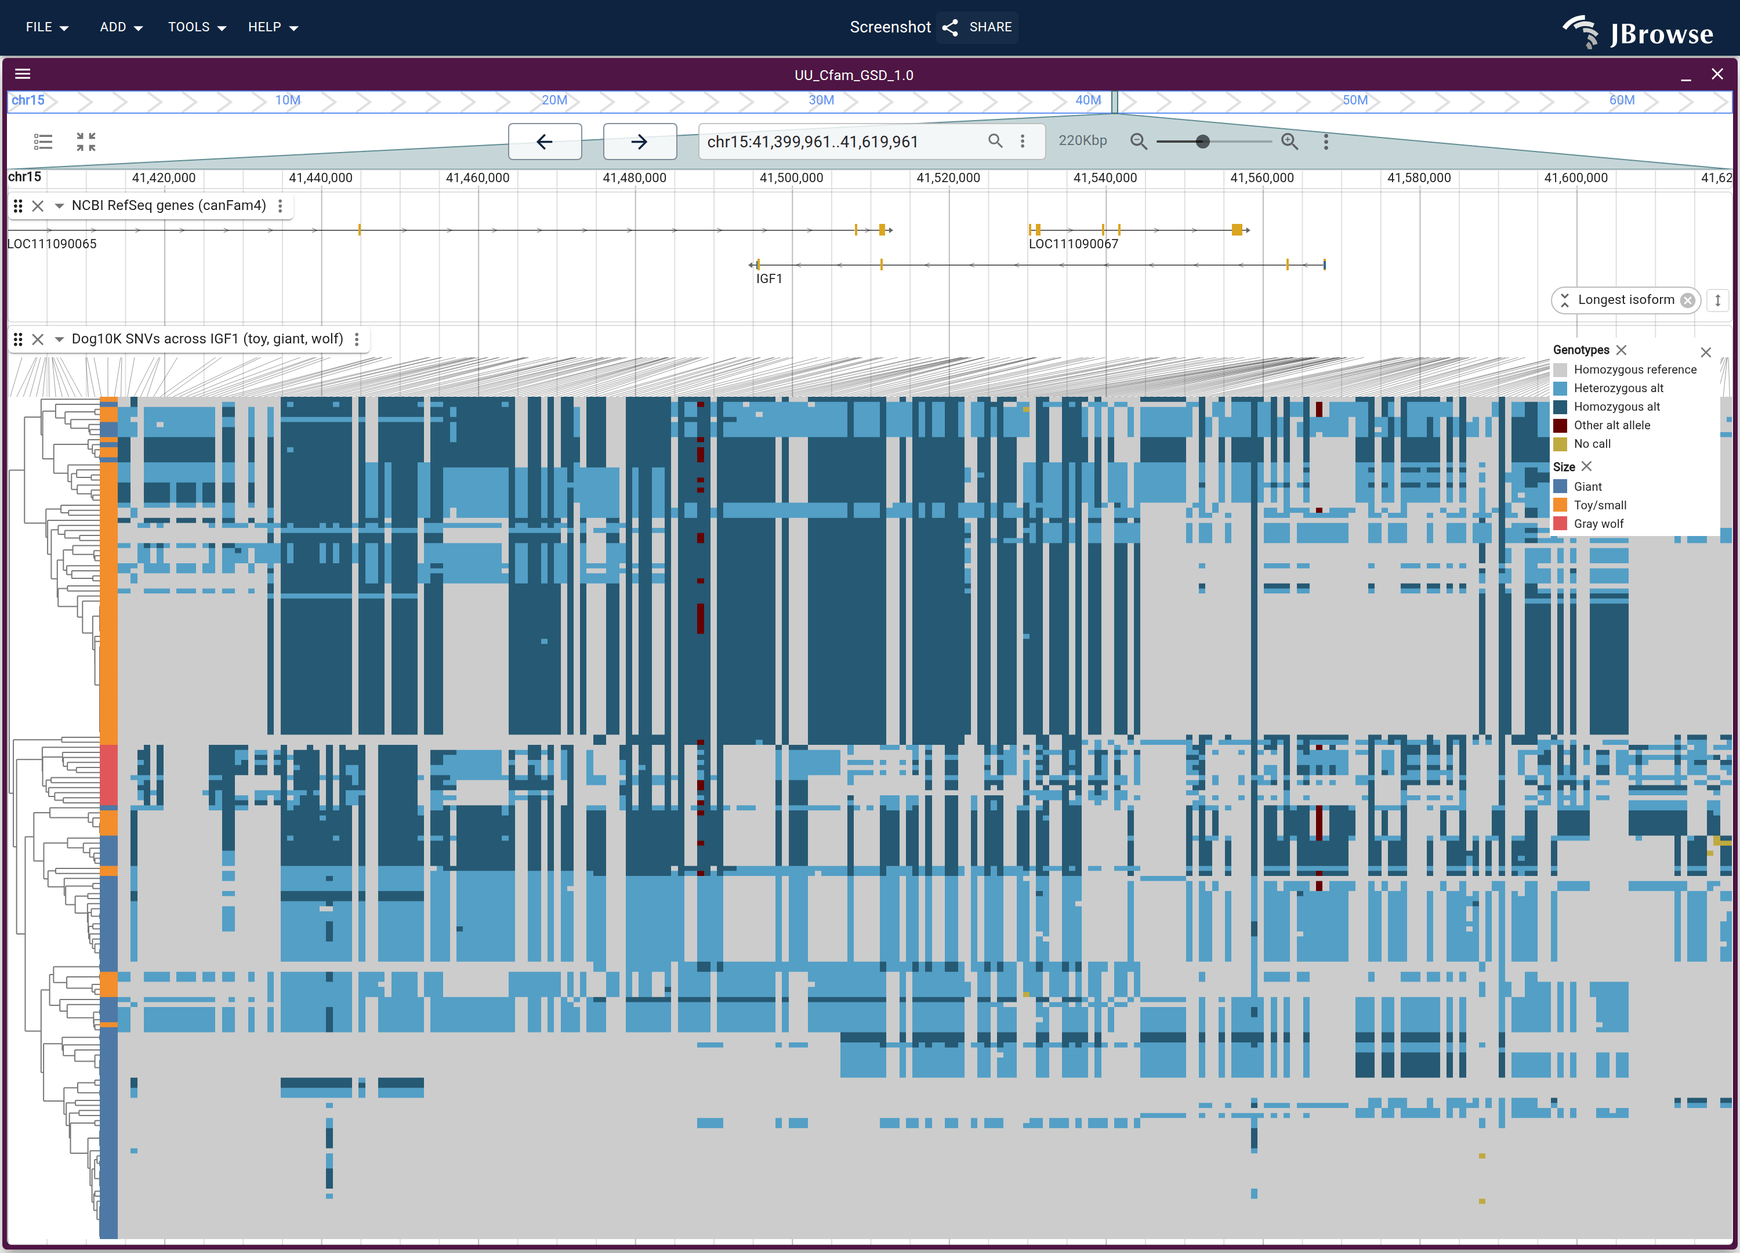
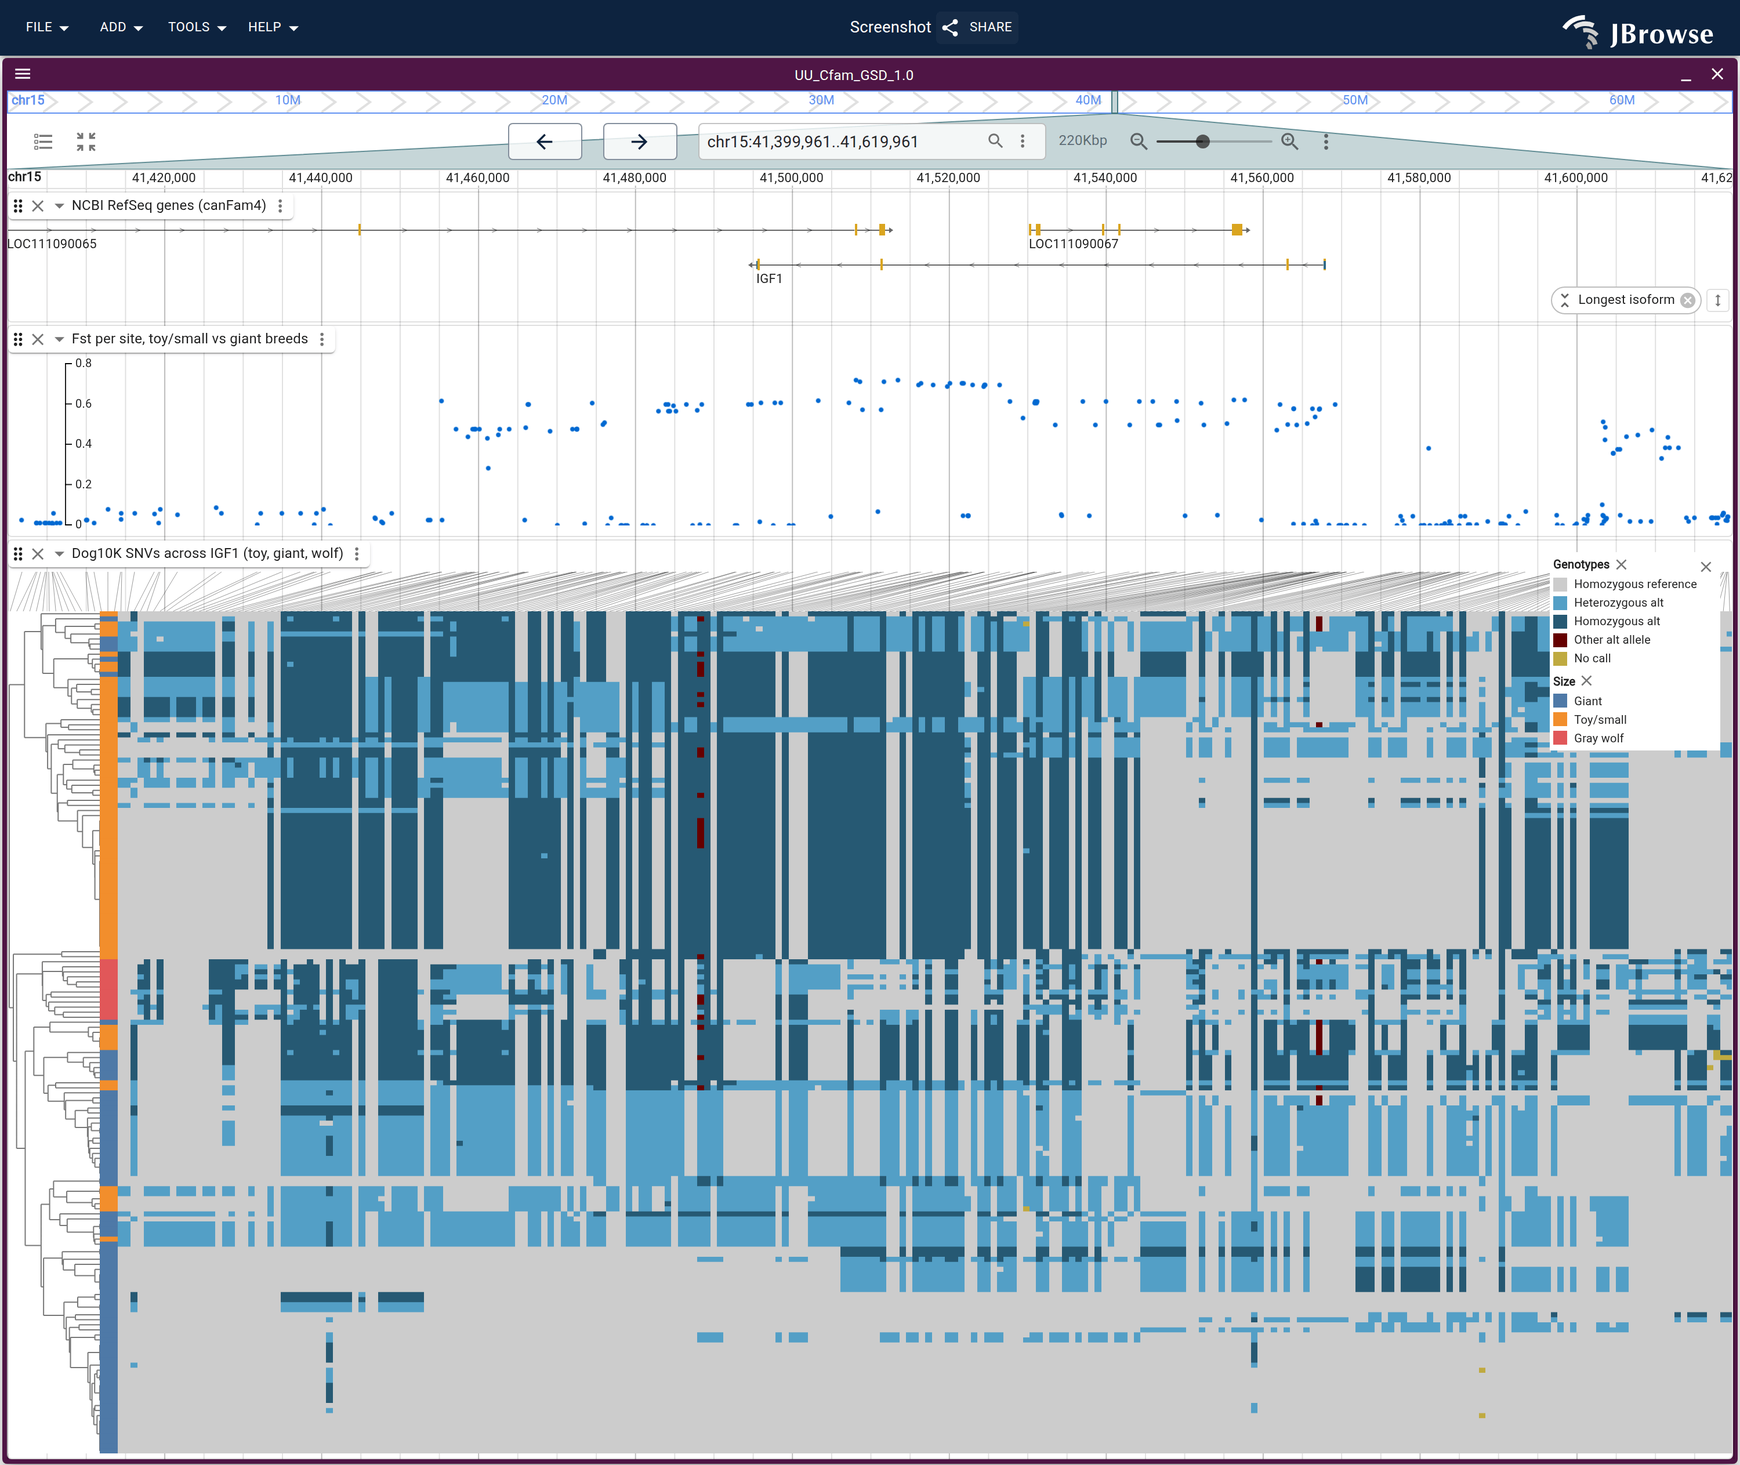
docs(dog10k): give the IGF1 tapestry an Fst lane to be read against
Review: "the variants are just a cool tapestry but hard to say this is
meaningful in any way ... go for it, add fst if it makes a good figure."

The genome-wide scan on the page above is binned at 200 kb, which is wider than
this whole 220 kb window, so it can say nothing inside it. igf1_site_fst.py runs
the same Hudson estimator between the same two breed panels one site at a time,
over the very VCF the matrix draws -- so every point in the new lane is one
column of the matrix under it, with no second callset in play.

What it shows: the differentiated sites are a run, not a scatter, and the run is
the block the clustering finds. That is the tapestry's meaning stated as a
number instead of asked of the reader's eye.

Same 0-0.8 axis as the genome scan so the two are one scale. viewportHeight
1080 -> 1263. The track config landed in 562354be67 with another agent's commit;
this carries its data, its build step and the figure.

(The track config for it was swept into another agent's commit; this adds the
data files, the build step and the figure.)

diff --git a/website/src/lib/galleryLinks.generated.ts b/website/src/lib/galleryLinks.generated.ts
@@ -233,7 +233,7 @@ export const specSessionUrls: Record<string, string> = {
   "dog10k-fgf4-retrogene-synteny": "?config=test_data/dog10k/config.json&session=spec-%7B%22views%22%3A%5B%7B%22type%22%3A%22LinearSyntenyView%22%2C%22drawCurves%22%3Afalse%2C%22cigarMode%22%3A%22matches%22%2C%22alpha%22%3A0.45%2C%22tracks%22%3A%5B%5B%22dog10k_fgf4_retro_cfa18%22%5D%2C%5B%22dog10k_fgf4_retro_cfa12%22%5D%5D%2C%22views%22%3A%5B%7B%22assembly%22%3A%22FGF4retro-CFA18%22%2C%22loc%22%3A%22FGF4retro-CFA18%3A1-2625%22%2C%22tracks%22%3A%5B%7B%22trackId%22%3A%22dog10k_fgf4_retro_cfa18_genes%22%2C%22type%22%3A%22LinearBasicDisplay%22%2C%22height%22%3A55%7D%5D%7D%2C%7B%22assembly%22%3A%22UU_Cfam_GSD_1.0%22%2C%22loc%22%3A%22chr18%3A48%2C869%2C100-48%2C872%2C900%22%2C%22tracks%22%3A%5B%7B%22trackId%22%3A%22canFam4_ncbi_refseq%22%2C%22type%22%3A%22LinearBasicDisplay%22%2C%22height%22%3A60%7D%2C%7B%22trackId%22%3A%22dog10k_fgf4_svs%22%2C%22type%22%3A%22LinearMultiSampleVariantDisplay%22%2C%22height%22%3A690%2C%22colorBy%22%3A%22group%22%7D%5D%7D%2C%7B%22assembly%22%3A%22FGF4retro-CFA12%22%2C%22loc%22%3A%22FGF4retro-CFA12%3A2-2639%22%2C%22tracks%22%3A%5B%7B%22trackId%22%3A%22dog10k_fgf4_retro_cfa12_genes%22%2C%22type%22%3A%22LinearBasicDisplay%22%2C%22height%22%3A55%7D%5D%7D%5D%7D%5D%7D&sessionName=Screenshot",
   "dog10k-cyp1a2-nonsense": "?config=test_data/dog10k/config.json&session=spec-%7B%22views%22%3A%5B%7B%22type%22%3A%22LinearGenomeView%22%2C%22assembly%22%3A%22UU_Cfam_GSD_1.0%22%2C%22loc%22%3A%22chr30%3A38%2C261%2C590-38%2C261%2C690%22%2C%22tracks%22%3A%5B%7B%22trackId%22%3A%22UU_Cfam_GSD_1.0-ReferenceSequenceTrack%22%2C%22type%22%3A%22LinearReferenceSequenceDisplay%22%2C%22showForward%22%3Atrue%2C%22showReverse%22%3Afalse%2C%22showTranslation%22%3Atrue%2C%22height%22%3A80%7D%2C%7B%22trackId%22%3A%22canFam4_ncbi_refseq%22%2C%22type%22%3A%22LinearBasicDisplay%22%2C%22height%22%3A60%7D%2C%7B%22trackId%22%3A%22dog10k_cyp1a2_snvs_positional%22%2C%22type%22%3A%22LinearVariantDisplay%22%2C%22height%22%3A60%2C%22jexlFilters%22%3A%5B%22get(feature%2C'start')%20%3D%3D%2038261634%22%5D%7D%2C%7B%22trackId%22%3A%22dog10k_cyp1a2_snvs%22%2C%22type%22%3A%22LinearMultiSampleVariantDisplay%22%2C%22height%22%3A500%2C%22layout%22%3A%5B%7B%22name%22%3A%22GHND000001%22%2C%22label%22%3A%22German%20Hound%201%22%2C%22color%22%3A%22%230072B2%22%7D%2C%7B%22name%22%3A%22GHND000002%22%2C%22label%22%3A%22German%20Hound%202%22%2C%22color%22%3A%22%230072B2%22%7D%2C%7B%22name%22%3A%22GHND000003%22%2C%22label%22%3A%22German%20Hound%203%22%2C%22color%22%3A%22%230072B2%22%7D%2C%7B%22name%22%3A%22GHND000004%22%2C%22label%22%3A%22German%20Hound%204%22%2C%22color%22%3A%22%230072B2%22%7D%2C%7B%22name%22%3A%22GHND000005%22%2C%22label%22%3A%22German%20Hound%205%22%2C%22color%22%3A%22%230072B2%22%7D%2C%7B%22name%22%3A%22GHND000006%22%2C%22label%22%3A%22German%20Hound%206%22%2C%22color%22%3A%22%230072B2%22%7D%2C%7B%22name%22%3A%22BHSP000001%22%2C%22label%22%3A%22Bohemian%20Shepherd%201%22%2C%22color%22%3A%22%230072B2%22%7D%2C%7B%22name%22%3A%22BHSP000002%22%2C%22label%22%3A%22Bohemian%20Shepherd%202%22%2C%22color%22%3A%22%230072B2%22%7D%2C%7B%22name%22%3A%22BHSP000003%22%2C%22label%22%3A%22Bohemian%20Shepherd%203%22%2C%22color%22%3A%22%230072B2%22%7D%2C%7B%22name%22%3A%22BHSP000004%22%2C%22label%22%3A%22Bohemian%20Shepherd%204%22%2C%22color%22%3A%22%230072B2%22%7D%2C%7B%22name%22%3A%22BHSP000005%22%2C%22label%22%3A%22Bohemian%20Shepherd%205%22%2C%22color%22%3A%22%230072B2%22%7D%2C%7B%22name%22%3A%22BHSP000006%22%2C%22label%22%3A%22Bohemian%20Shepherd%206%22%2C%22color%22%3A%22%230072B2%22%7D%2C%7B%22name%22%3A%22SSHP000001%22%2C%22label%22%3A%22Shetland%20Sheepdog%201%22%2C%22color%22%3A%22%230072B2%22%7D%2C%7B%22name%22%3A%22SSHP000002%22%2C%22label%22%3A%22Shetland%20Sheepdog%202%22%2C%22color%22%3A%22%230072B2%22%7D%2C%7B%22name%22%3A%22SSHP000003%22%2C%22label%22%3A%22Shetland%20Sheepdog%203%22%2C%22color%22%3A%22%230072B2%22%7D%2C%7B%22name%22%3A%22SSHP000004%22%2C%22label%22%3A%22Shetland%20Sheepdog%204%22%2C%22color%22%3A%22%230072B2%22%7D%2C%7B%22name%22%3A%22BRTR000001%22%2C%22label%22%3A%22Black%20Russian%20Terrier%201%22%2C%22color%22%3A%22%230072B2%22%7D%2C%7B%22name%22%3A%22BRTR000002%22%2C%22label%22%3A%22Black%20Russian%20Terrier%202%22%2C%22color%22%3A%22%230072B2%22%7D%2C%7B%22name%22%3A%22BRTR000003%22%2C%22label%22%3A%22Black%20Russian%20Terrier%203%22%2C%22color%22%3A%22%230072B2%22%7D%2C%7B%22name%22%3A%22BRTR000004%22%2C%22label%22%3A%22Black%20Russian%20Terrier%204%22%2C%22color%22%3A%22%230072B2%22%7D%2C%7B%22name%22%3A%22BRTR000005%22%2C%22label%22%3A%22Black%20Russian%20Terrier%205%22%2C%22color%22%3A%22%230072B2%22%7D%2C%7B%22name%22%3A%22KEES000002%22%2C%22label%22%3A%22Keeshond%201%22%2C%22color%22%3A%22%230072B2%22%7D%2C%7B%22name%22%3A%22KEES000003%22%2C%22label%22%3A%22Keeshond%202%22%2C%22color%22%3A%22%230072B2%22%7D%2C%7B%22name%22%3A%22KEES000004%22%2C%22label%22%3A%22Keeshond%203%22%2C%22color%22%3A%22%230072B2%22%7D%2C%7B%22name%22%3A%22KEES000005%22%2C%22label%22%3A%22Keeshond%204%22%2C%22color%22%3A%22%230072B2%22%7D%2C%7B%22name%22%3A%22KEES000006%22%2C%22label%22%3A%22Keeshond%205%22%2C%22color%22%3A%22%230072B2%22%7D%2C%7B%22name%22%3A%22LABR000001%22%2C%22label%22%3A%22Labrador%20Retriever%201%22%2C%22color%22%3A%22%23999999%22%7D%2C%7B%22name%22%3A%22LABR000002%22%2C%22label%22%3A%22Labrador%20Retriever%202%22%2C%22color%22%3A%22%23999999%22%7D%2C%7B%22name%22%3A%22LABR000003%22%2C%22label%22%3A%22Labrador%20Retriever%203%22%2C%22color%22%3A%22%23999999%22%7D%2C%7B%22name%22%3A%22LABR000004%22%2C%22label%22%3A%22Labrador%20Retriever%204%22%2C%22color%22%3A%22%23999999%22%7D%2C%7B%22name%22%3A%22LABR000005%22%2C%22label%22%3A%22Labrador%20Retriever%205%22%2C%22color%22%3A%22%23999999%22%7D%2C%7B%22name%22%3A%22BOXR000001%22%2C%22label%22%3A%22Boxer%201%22%2C%22color%22%3A%22%23999999%22%7D%2C%7B%22name%22%3A%22BOXR000002%22%2C%22label%22%3A%22Boxer%202%22%2C%22color%22%3A%22%23999999%22%7D%2C%7B%22name%22%3A%22BOXR000003%22%2C%22label%22%3A%22Boxer%203%22%2C%22color%22%3A%22%23999999%22%7D%2C%7B%22name%22%3A%22BOXR000004%22%2C%22label%22%3A%22Boxer%204%22%2C%22color%22%3A%22%23999999%22%7D%2C%7B%22name%22%3A%22CLUPGR000001%22%2C%22label%22%3A%22Wolf%201%22%2C%22color%22%3A%22%23E69F00%22%7D%2C%7B%22name%22%3A%22CLUPGR000002%22%2C%22label%22%3A%22Wolf%202%22%2C%22color%22%3A%22%23E69F00%22%7D%2C%7B%22name%22%3A%22CLUPGR000003%22%2C%22label%22%3A%22Wolf%203%22%2C%22color%22%3A%22%23E69F00%22%7D%2C%7B%22name%22%3A%22CLUPGR000004%22%2C%22label%22%3A%22Wolf%204%22%2C%22color%22%3A%22%23E69F00%22%7D%5D%2C%22jexlFilters%22%3A%5B%22jexl%3Aget(feature%2C'start')%20%3D%3D%2038261634%22%5D%7D%5D%7D%5D%7D&sessionName=Screenshot",
   "dog10k-cyp1a2-cohort-copy-number": "?config=test_data/dog10k/config.json&session=spec-%7B%22views%22%3A%5B%7B%22type%22%3A%22LinearGenomeView%22%2C%22assembly%22%3A%22UU_Cfam_GSD_1.0%22%2C%22loc%22%3A%22chr30%3A38%2C210%2C000-38%2C395%2C000%22%2C%22tracks%22%3A%5B%7B%22trackId%22%3A%22canFam4_ncbi_refseq%22%2C%22type%22%3A%22LinearBasicDisplay%22%2C%22height%22%3A90%7D%2C%7B%22trackId%22%3A%22dog10k_cyp1a2_cpg%22%2C%22type%22%3A%22LinearBasicDisplay%22%2C%22height%22%3A62%7D%2C%7B%22trackId%22%3A%22dog10k_cyp1a2_breed_cn%22%2C%22type%22%3A%22LinearMultiRowFeatureDisplay%22%2C%22height%22%3A380%7D%2C%7B%22trackId%22%3A%22dog10k_cyp1a2_cohort_cn%22%2C%22type%22%3A%22LinearMultiRowFeatureDisplay%22%2C%22height%22%3A300%2C%22runClustering%22%3Atrue%7D%5D%7D%5D%7D&sessionName=Screenshot",
-  "dog10k-igf1-haplotype": "?config=test_data/dog10k/config.json&session=spec-%7B%22views%22%3A%5B%7B%22type%22%3A%22LinearGenomeView%22%2C%22assembly%22%3A%22UU_Cfam_GSD_1.0%22%2C%22loc%22%3A%22chr15%3A41%2C400%2C000-41%2C620%2C000%22%2C%22tracks%22%3A%5B%7B%22trackId%22%3A%22canFam4_ncbi_refseq%22%2C%22type%22%3A%22LinearBasicDisplay%22%2C%22geneGlyphMode%22%3A%22longestCoding%22%2C%22height%22%3A80%7D%2C%7B%22trackId%22%3A%22dog10k_igf1_haplotype%22%2C%22type%22%3A%22LinearMultiSampleVariantMatrixDisplay%22%2C%22height%22%3A760%2C%22lineZoneHeight%22%3A34%2C%22runClustering%22%3Atrue%2C%22colorBy%22%3A%22size%22%7D%5D%7D%5D%7D&sessionName=Screenshot",
+  "dog10k-igf1-haplotype": "?config=test_data/dog10k/config.json&session=spec-%7B%22views%22%3A%5B%7B%22type%22%3A%22LinearGenomeView%22%2C%22assembly%22%3A%22UU_Cfam_GSD_1.0%22%2C%22loc%22%3A%22chr15%3A41%2C400%2C000-41%2C620%2C000%22%2C%22tracks%22%3A%5B%7B%22trackId%22%3A%22canFam4_ncbi_refseq%22%2C%22type%22%3A%22LinearBasicDisplay%22%2C%22geneGlyphMode%22%3A%22longestCoding%22%2C%22height%22%3A80%7D%2C%7B%22trackId%22%3A%22dog10k_igf1_fst%22%2C%22type%22%3A%22LinearManhattanDisplay%22%2C%22height%22%3A150%2C%22scatterPointSize%22%3A4%2C%22minScore%22%3A0%2C%22maxScore%22%3A0.8%7D%2C%7B%22trackId%22%3A%22dog10k_igf1_haplotype%22%2C%22type%22%3A%22LinearMultiSampleVariantMatrixDisplay%22%2C%22height%22%3A760%2C%22lineZoneHeight%22%3A34%2C%22runClustering%22%3Atrue%2C%22colorBy%22%3A%22size%22%7D%5D%7D%5D%7D&sessionName=Screenshot",
   "gallery/copynumber_clustered": "?config=test_data/config_demo.json&session=spec-%7B%22views%22%3A%5B%7B%22type%22%3A%22LinearGenomeView%22%2C%22assembly%22%3A%22hg38%22%2C%22loc%22%3A%22chr3%3A162%2C275%2C163-163%2C360%2C944%22%2C%22tracks%22%3A%5B%7B%22trackId%22%3A%22pur_copynumber_1000g%22%2C%22type%22%3A%22MultiLinearWiggleDisplay%22%2C%22height%22%3A420%2C%22defaultRendering%22%3A%22multirowdensity%22%2C%22autoscale%22%3A%22local%22%2C%22showTree%22%3Afalse%7D%5D%7D%5D%7D&sessionName=Screenshot",
   "gallery/sarscov2_polyprotein": "?config=test_data%2Fsars-cov2%2Fconfig.json&session=spec-{\"views\":[{\"assembly\":\"Wuhan-Hu-1\",\"loc\":\"NC_045512.2:266-21555\",\"type\":\"LinearGenomeView\",\"colorByCDS\":true,\"tracks\":[{\"trackId\":\"ncbi_genes_with_mature_peptides\",\"displaySnapshot\":{\"type\":\"LinearBasicDisplay\",\"subfeatureLabels\":\"below\"}}]}]}",
   "gallery/fiberseq_gapdh": "?config=test_data/config_demo.json&session=spec-%7B%22sessionTracks%22%3A%5B%7B%22type%22%3A%22FeatureTrack%22%2C%22trackId%22%3A%22gencode_promoter_hg38_ucsc%22%2C%22name%22%3A%22GENCODE%20v48%20promoter%20windows%20(UCSC)%22%2C%22assemblyNames%22%3A%5B%22hg38%22%5D%2C%22adapter%22%3A%7B%22type%22%3A%22Gff3TabixAdapter%22%2C%22gffGzLocation%22%3A%7B%22uri%22%3A%22https%3A%2F%2Fjbrowse.org%2Fucsc%2Fhg38%2Fgencode.v48.promoter_windows.sorted.gff3.gz%22%2C%22locationType%22%3A%22UriLocation%22%7D%2C%22index%22%3A%7B%22location%22%3A%7B%22uri%22%3A%22https%3A%2F%2Fjbrowse.org%2Fucsc%2Fhg38%2Fgencode.v48.promoter_windows.sorted.gff3.gz.csi%22%2C%22locationType%22%3A%22UriLocation%22%7D%2C%22indexType%22%3A%22CSI%22%7D%7D%7D%5D%2C%22views%22%3A%5B%7B%22assembly%22%3A%22hg38%22%2C%22loc%22%3A%2212%3A6530000-6539000%22%2C%22type%22%3A%22LinearGenomeView%22%2C%22tracks%22%3A%5B%7B%22trackId%22%3A%22ncbi_refseq_109_hg38_latest%22%2C%22type%22%3A%22LinearBasicDisplay%22%2C%22geneGlyphMode%22%3A%22longestCoding%22%7D%2C%7B%22trackId%22%3A%22gencode_promoter_hg38_ucsc%22%2C%22type%22%3A%22LinearBasicDisplay%22%2C%22height%22%3A50%7D%2C%7B%22trackId%22%3A%22catlas_scatac_celltypes_hg38%22%2C%22type%22%3A%22MultiLinearWiggleDisplay%22%2C%22height%22%3A150%7D%2C%7B%22trackId%22%3A%22PAY22766-nanopore%22%2C%22type%22%3A%22LinearAlignmentsDisplay%22%2C%22height%22%3A450%2C%22colorBy%22%3A%7B%22type%22%3A%22modifications%22%2C%22modifications%22%3A%7B%22shownModifications%22%3A%5B%22a%22%5D%7D%7D%2C%22displayMode%22%3A%22compact%22%2C%22showLegend%22%3Atrue%7D%5D%7D%5D%7D&sessionName=Screenshot",

diff --git a/website/scripts/specs/dog10k.ts b/website/scripts/specs/dog10k.ts
@@ -1488,6 +1488,10 @@ export const dog10kSpecs: ScreenshotSpec[] = [
           trackId: 'dog10k_igf1_fst',
           type: 'LinearManhattanDisplay',
           height: 150,
+          scatterPointSize: 4,
+          // the same 0-0.8 axis as the genome-wide scan on the page above, so a
+          // reader moving between them is reading one scale
+          ...FST_AXIS,
         },
         {
           trackId: 'dog10k_igf1_haplotype',
@@ -1505,7 +1509,7 @@ export const dog10kSpecs: ScreenshotSpec[] = [
     readySelector: '[data-testid="tree_sidebar_dendrogram"]',
     readyTimeout: 120000,
     settleMs: 5000,
-    // gene track, the 760px matrix, their headers, and the two keys
-    viewportHeight: 1080,
+    // gene track, the Fst lane, the 760px matrix, their headers and the keys
+    viewportHeight: 1263,
   },
 ]

diff --git a/scripts/igf1_site_fst.py b/scripts/igf1_site_fst.py
@@ -1,0 +1,102 @@
+"""Per-site Hudson Fst between the two size panels of the IGF1 slice.
+
+The genome-wide scan (build_dog10k_size_fst.sh) is binned at 200 kb, which is
+wider than the whole IGF1 window, so it cannot say anything inside it. This
+computes the same estimator one site at a time over the sliced VCF the haplotype
+matrix draws, so every point in the lane is one column of that matrix and the two
+can be read against each other without a second callset in play.
+
+Hudson's estimator, bias-corrected against each panel's own sample size (Bhatia
+et al. 2013); the wolves are not a panel here and take no part in it.
+
+Usage: python3 igf1_site_fst.py dog10k_igf1.vcf.gz dog10k_igf1_samples.tsv out.bed
+"""
+
+import gzip
+import sys
+
+SMALL = 'Toy/small'
+GIANT = 'Giant'
+
+
+def open_maybe_gzip(path):
+    return gzip.open(path, 'rt') if path.endswith('.gz') else open(path)
+
+
+def dosage(field):
+    """Alt count of a genotype, or None where it is missing."""
+    gt = field.split(':', 1)[0]
+    if '.' in gt:
+        return None
+    return gt.count('1')
+
+
+def main():
+    vcf_path, tsv_path, out_path = sys.argv[1:4]
+
+    size_of = {}
+    with open(tsv_path) as fh:
+        header = fh.readline().rstrip('\n').split('\t')
+        name_i, size_i = header.index('name'), header.index('size')
+        for line in fh:
+            parts = line.rstrip('\n').split('\t')
+            size_of[parts[name_i]] = parts[size_i]
+
+    written = 0
+    with open_maybe_gzip(vcf_path) as fh, open(out_path, 'w') as out:
+        small = giant = None
+        for line in fh:
+            if line.startswith('##'):
+                continue
+            cols = line.rstrip('\n').split('\t')
+            if line.startswith('#CHROM'):
+                samples = cols[9:]
+                small = [i for i, s in enumerate(samples) if size_of.get(s) == SMALL]
+                giant = [i for i, s in enumerate(samples) if size_of.get(s) == GIANT]
+                print(
+                    'panels: %d toy/small, %d giant' % (len(small), len(giant)),
+                    file=sys.stderr,
+                )
+                continue
+            # Multiallelic sites would need one score per alt and are skipped;
+            # the slice is bcftools-normalized, so there are few or none.
+            if ',' in cols[4]:
+                continue
+            gts = cols[9:]
+
+            def counts(group):
+                ac = an = 0
+                for i in group:
+                    d = dosage(gts[i])
+                    if d is not None:
+                        ac += d
+                        an += 2
+                return ac, an
+
+            ac1, an1 = counts(small)
+            ac2, an2 = counts(giant)
+            if an1 < 40 or an2 < 40:
+                continue
+            p1, p2 = ac1 / an1, ac2 / an2
+            if (p1 == 0 and p2 == 0) or (p1 == 1 and p2 == 1):
+                continue
+            num = (p1 - p2) ** 2 - p1 * (1 - p1) / (an1 - 1) - p2 * (1 - p2) / (an2 - 1)
+            den = p1 * (1 - p2) + p2 * (1 - p1)
+            if den <= 0:
+                continue
+            # The estimator is unbiased, so it goes slightly negative where the
+            # panels do not differ; those sites are reported as zero rather than
+            # dropped, since a site with no differentiation is part of the shape.
+            fst = max(0.0, num / den)
+            pos = int(cols[1])
+            out.write(
+                '%s\t%d\t%d\t%s\t%.5f\t%.3f\t%.3f\n'
+                % (cols[0], pos - 1, pos, '%s:%d' % (cols[0], pos), fst, p1, p2)
+            )
+            written += 1
+
+    print('wrote %d sites to %s' % (written, out_path), file=sys.stderr)
+
+
+if __name__ == '__main__':
+    main()

diff --git a/website/docs/tutorials/dog10k_selection.md b/website/docs/tutorials/dog10k_selection.md
@@ -176,11 +176,17 @@ and the haplotype runs 40 kb past it upstream and 44 kb past it downstream.
 
 ## Reading it
 
-<Figure caption="SNVs across 220 kb at IGF1 as a matrix, one row per canid and one column per variant, clustered by genotype with size class as the sidebar swatch. The upper cluster is the toy and small breeds and the lower one the giants; the wolves are the red run between them. Even column widths make the shared haplotype a block rather than speckle; the lines above tie each column back to its position." src="/img/dog10k-igf1-haplotype.png" />
+<Figure caption="SNVs across 220 kb at IGF1 as a matrix, one row per canid and one column per variant, clustered by genotype with size class as the sidebar swatch, under per-site Fst between the same two size panels. The upper cluster is the toy and small breeds and the lower one the giants; the wolves are the red run between them. Even column widths make the shared haplotype a block rather than speckle; the lines above tie each column back to its position." src="/img/dog10k-igf1-haplotype.png" />
 
 The panel separates into two clusters that correspond to the size classes, and
 the block's boundaries fall within the window, so its extent reads against the
 gene track above it rather than being inferred.
+
+The lane between them says which columns are doing the work. It is the same
+Hudson Fst as the genome scan, between the same two panels, but computed one
+site at a time over this VCF rather than in 200 kb windows, so each point is one
+column of the matrix below. The differentiated sites are a run rather than a
+scatter, and the run is the block the clustering found.
 
 Rows depart from their swatch in both directions: single orange rows sit within
 the giant cluster and single blue rows within the small one. The build script
@@ -220,9 +226,10 @@ labelling.
 
 [`build_dog10k_igf1.sh`](https://github.com/GMOD/jbrowse-components/blob/main/scripts/build_dog10k_igf1.sh)
 derives the same panels plus the metadata TSV, slices the _IGF1_ window out of
-the callset, and reports the alt-allele dosage per size class over the sites
-inside the gene that separate the two dog classes, so the split can be checked
-numerically as well as read from the figure.
+the callset, scores every site in it with the same estimator the scan uses, and
+reports the alt-allele dosage per size class over the sites inside the gene that
+separate the two dog classes, so the split can be checked numerically as well as
+read from the figure.
 
 ## See also
 
